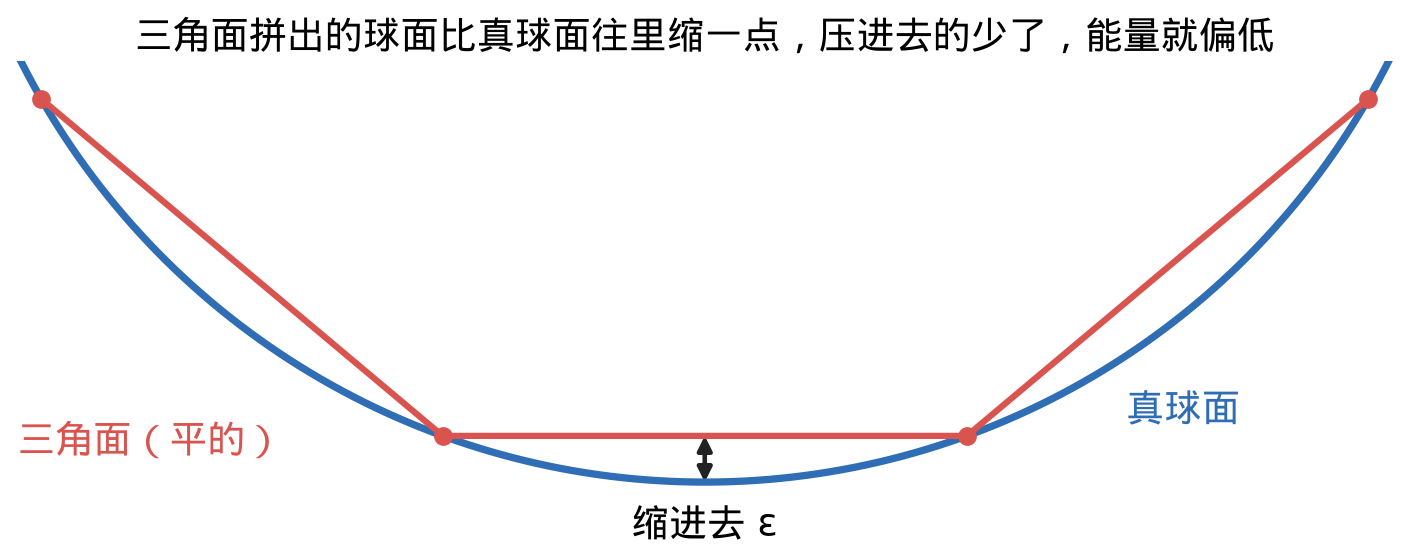
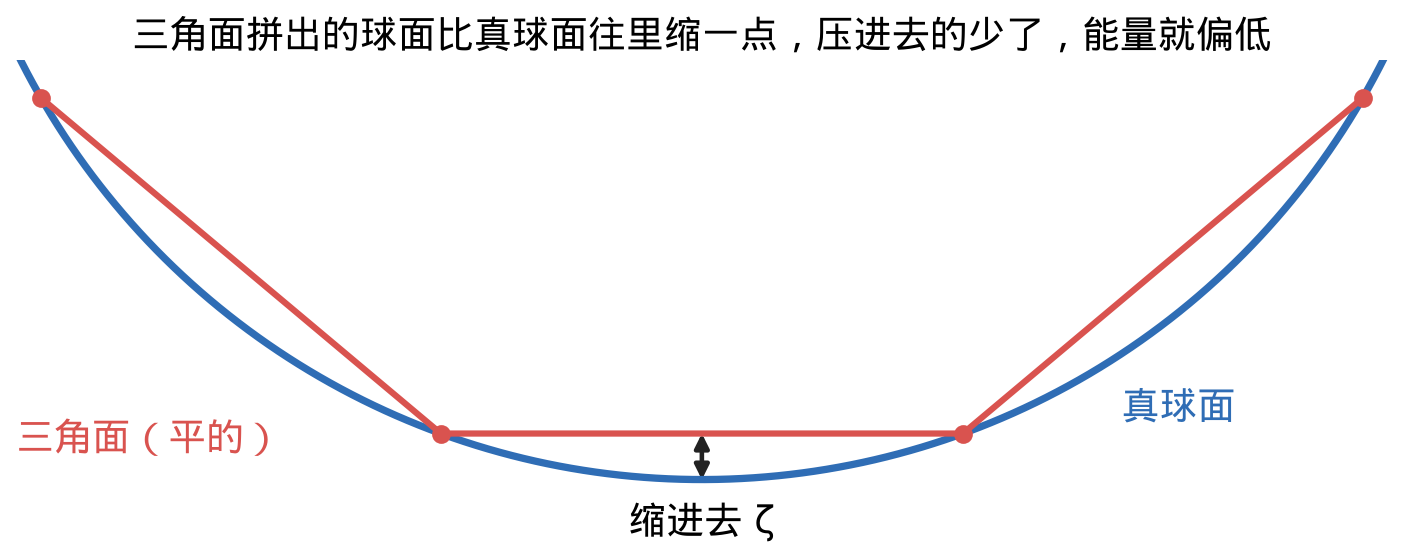
week3_4: four figures redrawn with the unified letters, captions updated, web-image captions note d = δ (sandbox 4ceebd4, 025a337)

diff --git a/week3_4.html b/week3_4.html
@@ -305,7 +305,7 @@ html.annot-on #annot-capture { display: block; }
 <h3 id="w2-1" class="numbered">2.1 两个软体等价于刚体压软平面</h3>
 
 <p><strong>前提。</strong> 接触区比物体小得多，接触处两侧都可看成无限大的弹性体（半空间）；变形很小；无摩擦。</p>
-<figure style="margin:12px 0"><img src="assets/images/w34_Contact_sphere-plane.jpg" width="576" height="404" style="width:599px;max-width:100%;height:auto" alt="这张图展示了弹性球压在弹性平面上时两者怎样变形。F 是把球往下压的力，上方水平虚线是平面原来的表面，弯下去的粗实线是压下去以后的表面，底部那条水平细线只用来量压深，球底部的虚线弧是球没变形时的轮廓，a 是接触半径，d 是压深。通过对比水平虚线和弯下去的粗实线，以及球底的虚实两条弧线，可以看出球和平面都被压扁了一点，而且接触圈以外的平面也被平滑地带着往下沉。" loading="lazy"><figcaption class="small">这张图展示了弹性球压在弹性平面上时两者怎样变形。F 是把球往下压的力，上方水平虚线是平面原来的表面，弯下去的粗实线是压下去以后的表面，底部那条水平细线只用来量压深，球底部的虚线弧是球没变形时的轮廓，a 是接触半径，d 是压深。通过对比水平虚线和弯下去的粗实线，以及球底的虚实两条弧线，可以看出球和平面都被压扁了一点，而且接触圈以外的平面也被平滑地带着往下沉。</figcaption></figure>
+<figure style="margin:12px 0"><img src="assets/images/w34_Contact_sphere-plane.jpg" width="576" height="404" style="width:599px;max-width:100%;height:auto" alt="这张图展示了弹性球压在弹性平面上时两者怎样变形。F 是把球往下压的力，上方水平虚线是平面原来的表面，弯下去的粗实线是压下去以后的表面，底部那条水平细线只用来量压深，球底部的虚线弧是球没变形时的轮廓，a 是接触半径，d 是压深。通过对比水平虚线和弯下去的粗实线，以及球底的虚实两条弧线，可以看出球和平面都被压扁了一点，而且接触圈以外的平面也被平滑地带着往下沉。图中 d 即压深 δ。" loading="lazy"><figcaption class="small">这张图展示了弹性球压在弹性平面上时两者怎样变形。F 是把球往下压的力，上方水平虚线是平面原来的表面，弯下去的粗实线是压下去以后的表面，底部那条水平细线只用来量压深，球底部的虚线弧是球没变形时的轮廓，a 是接触半径，d 是压深。通过对比水平虚线和弯下去的粗实线，以及球底的虚实两条弧线，可以看出球和平面都被压扁了一点，而且接触圈以外的平面也被平滑地带着往下沉。图中 d 即压深 δ。</figcaption></figure>
 <p><strong>要证的事。</strong> 已知两物体的材料、表面形状和压深，求接触面上压力满足的方程，并说明它只依赖哪几个量。</p>
 <p><strong>四个出发点。</strong></p>
 <p>(1) 两侧受同一个压力。设 \(\mathbf x\) 是接触面上的位置，\(p(\mathbf x)\) 是那里单位面积上的压力。由作用与反作用，A 压 B 和 B 压 A 的压力相同，都记作 \(p(\mathbf x)\)。</p>
@@ -339,8 +339,8 @@ html.annot-on #annot-capture { display: block; }
 <p>其中 \(h&#x27;\) 是缝隙的斜率。则三维问题的压深、力、能量与「一排互不相干的弹簧压在轮廓 \(g\) 上」完全一致：第 \(x\) 根弹簧被压缩 \(\delta-g(x)\)，每单位长度刚度为 \(E^*\)，压缩量为零的那根是接触边缘：</p>
 <p>\[\color{#c0392b}{\delta=g(a),\qquad F=2E^*\int_0^a\big(\delta-g(x)\big)dx,\qquad U_0=E^*\int_0^a\big(\delta-g(x)\big)^2dx}.\]</p>
 <p>三维中各点相互牵连的效果全部被 \(h\to g\) 这一换算吸收，换算后弹簧可以各压各的。</p>
-<figure style="margin:12px 0"><img src="assets/images/w34_fig04_mdr_springs.png" width="2207" height="1021" style="width:908px;max-width:100%;height:auto" alt="这张图展示了降维法怎样把三维接触换成一排一维弹簧。左边灰色刚体压橙色平面，两者之间的缝隙是 h(r)，平面里各点的变形互相牵连。右边把缝隙换成灰色的等效轮廓 g(x) = x²/R（R 是球的半径），压进一排弹簧，灰色虚线是弹簧没压时的顶端，红色箭头是压深 d。通过对比两条红色点线之间被压短的蓝色弹簧和点线外不受力的灰色弹簧，可以看出红色点线的位置就是接触边缘 a，满足 g(a) = d。每根弹簧只管自己那一格，所以三维里各点互相牵连的问题变成了一维的逐根相加。" loading="lazy"><figcaption class="small">这张图展示了降维法怎样把三维接触换成一排一维弹簧。左边灰色刚体压橙色平面，两者之间的缝隙是 h(r)，平面里各点的变形互相牵连。右边把缝隙换成灰色的等效轮廓 g(x) = x²/R（R 是球的半径），压进一排弹簧，灰色虚线是弹簧没压时的顶端，红色箭头是压深 d。通过对比两条红色点线之间被压短的蓝色弹簧和点线外不受力的灰色弹簧，可以看出红色点线的位置就是接触边缘 a，满足 g(a) = d。每根弹簧只管自己那一格，所以三维里各点互相牵连的问题变成了一维的逐根相加。</figcaption></figure>
-<figure style="margin:12px 0"><img src="assets/images/w34_WikipediabilderKap_4.jpg" width="1153" height="409" style="width:1184px;max-width:100%;height:auto" alt="这张图是降维法原作者的示意图。左边是半径 R 的灰色球在力 F 下压进弹性平面，a 是接触半径，d 是压深；箭头右边是换成的一维模型，一个半径 R1 的灰色轮廓在同样的力 F 下压进一排竖直弹簧，R1 = R/2，也就是等效轮廓 g(x) = x²/R。通过对比左右两边标出的 a 和 d，可以看出换成一排各压各的弹簧后，力、接触半径、压深都与三维问题相同，所以能用一维弹簧算三维接触。" loading="lazy"><figcaption class="small">这张图是降维法原作者的示意图。左边是半径 R 的灰色球在力 F 下压进弹性平面，a 是接触半径，d 是压深；箭头右边是换成的一维模型，一个半径 R1 的灰色轮廓在同样的力 F 下压进一排竖直弹簧，R1 = R/2，也就是等效轮廓 g(x) = x²/R。通过对比左右两边标出的 a 和 d，可以看出换成一排各压各的弹簧后，力、接触半径、压深都与三维问题相同，所以能用一维弹簧算三维接触。</figcaption></figure>
+<figure style="margin:12px 0"><img src="assets/images/w34_fig04_mdr_springs.png" width="2205" height="1021" style="width:907px;max-width:100%;height:auto" alt="这张图展示了降维法怎样把三维接触换成一排一维弹簧。左边灰色刚体压橙色平面，两者之间的缝隙是 h(r)，平面里各点的变形互相牵连。右边把缝隙换成灰色的等效轮廓 g(x) = x²/R（R 是球的半径），压进一排弹簧，灰色虚线是弹簧没压时的顶端，红色箭头是压深 δ。通过对比两条红色点线之间被压短的蓝色弹簧和点线外不受力的灰色弹簧，可以看出红色点线的位置就是接触边缘 a，满足 g(a) = δ。每根弹簧只管自己那一格，所以三维里各点互相牵连的问题变成了一维的逐根相加。" loading="lazy"><figcaption class="small">这张图展示了降维法怎样把三维接触换成一排一维弹簧。左边灰色刚体压橙色平面，两者之间的缝隙是 h(r)，平面里各点的变形互相牵连。右边把缝隙换成灰色的等效轮廓 g(x) = x²/R（R 是球的半径），压进一排弹簧，灰色虚线是弹簧没压时的顶端，红色箭头是压深 δ。通过对比两条红色点线之间被压短的蓝色弹簧和点线外不受力的灰色弹簧，可以看出红色点线的位置就是接触边缘 a，满足 g(a) = δ。每根弹簧只管自己那一格，所以三维里各点互相牵连的问题变成了一维的逐根相加。</figcaption></figure>
+<figure style="margin:12px 0"><img src="assets/images/w34_WikipediabilderKap_4.jpg" width="1153" height="409" style="width:1184px;max-width:100%;height:auto" alt="这张图是降维法原作者的示意图。左边是半径 R 的灰色球在力 F 下压进弹性平面，a 是接触半径，d 是压深；箭头右边是换成的一维模型，一个半径 R1 的灰色轮廓在同样的力 F 下压进一排竖直弹簧，R1 = R/2，也就是等效轮廓 g(x) = x²/R。通过对比左右两边标出的 a 和 d，可以看出换成一排各压各的弹簧后，力、接触半径、压深都与三维问题相同，所以能用一维弹簧算三维接触。图中 d 即压深 δ。" loading="lazy"><figcaption class="small">这张图是降维法原作者的示意图。左边是半径 R 的灰色球在力 F 下压进弹性平面，a 是接触半径，d 是压深；箭头右边是换成的一维模型，一个半径 R1 的灰色轮廓在同样的力 F 下压进一排竖直弹簧，R1 = R/2，也就是等效轮廓 g(x) = x²/R。通过对比左右两边标出的 a 和 d，可以看出换成一排各压各的弹簧后，力、接触半径、压深都与三维问题相同，所以能用一维弹簧算三维接触。图中 d 即压深 δ。</figcaption></figure>
 <h4>推导</h4>
 <p><strong>第一步：平底的解。</strong> 半径为 \(\tilde a\) 的平底压入深度 \(\delta\) 时，底面下的压强是 Boussinesq 的经典解</p>
 <p>\[p(r)=\frac{E^*\delta}{\pi\sqrt{\tilde a^2-r^2}}\quad(r&lt;\tilde a).\]</p>
@@ -523,7 +523,7 @@ html.annot-on #annot-capture { display: block; }
 <p>为什么与 \(\ell^2/R\) 成正比：看两个典型点，边中点约 \(\ell^2/(8R)\)，面中心约 \(\ell^2/(6R)\)（整面平均也等于 \(\ell^2/(8R)\)）。这两个数来自弦高：一个平面截球面得到半径 \(\rho\) 的截圆，截圆中心处平面比球面凹进的深度，按 2.3 节同样的勾股近似（\(R-\sqrt{R^2-\rho^2}\)，略去高阶项）是</p>
 <p>\[\zeta\approx\frac{\rho^2}{2R}.\]</p>
 <p>（\(\zeta\) 是凹进深度。）边是长 \(\ell\) 的弦，边中点处取 \(\rho=\ell/2\)，得 \(\zeta=\frac{(\ell/2)^2}{2R}=\frac{\ell^2}{8R}\)；正三角形的三个顶点落在半径 \(\rho=\ell/\sqrt3\) 的截圆上（外接圆），面中心处得 \(\zeta=\frac{\ell^2/3}{2R}=\frac{\ell^2}{6R}\)。两者都是 \(\ell^2/R\) 乘一个常数，边长减半时都缩为四分之一。</p>
-<figure style="margin:12px 0"><img src="assets/images/w34_fig11b_facet_sagitta.png" width="1409" height="556" style="width:669px;max-width:100%;height:auto" alt="这张图展示了三角面拼出的球为什么让能量偏低。蓝色弧线是真球面，红色折线是用平的三角面拼出来的球面，红点是三角面的顶点，都落在真球面上。通过对比蓝色弧线和红色折线，以及最下面那块平面中点到弧线之间标着「缩进去 ε」的小箭头，可以看出每块平面都比真球面往里缩了一点，压头实际压进去的量变少，所以算出的能量偏低。三角面拼得越粗，ε 越大，能量偏得越多。" loading="lazy"><figcaption class="small">这张图展示了三角面拼出的球为什么让能量偏低。蓝色弧线是真球面，红色折线是用平的三角面拼出来的球面，红点是三角面的顶点，都落在真球面上。通过对比蓝色弧线和红色折线，以及最下面那块平面中点到弧线之间标着「缩进去 ε」的小箭头，可以看出每块平面都比真球面往里缩了一点，压头实际压进去的量变少，所以算出的能量偏低。三角面拼得越粗，ε 越大，能量偏得越多。</figcaption></figure>
+<figure style="margin:12px 0"><img src="assets/images/w34_fig11b_facet_sagitta.png" width="1404" height="558" style="width:666px;max-width:100%;height:auto" alt="这张图展示了三角面拼出的球为什么让能量偏低。蓝色弧线是真球面，红色折线是用平的三角面拼出来的球面，红点是三角面的顶点，都落在真球面上。通过对比蓝色弧线和红色折线，以及最下面那块平面中点到弧线之间标着「缩进去 ζ」的小箭头，可以看出每块平面都比真球面往里缩了一点，压头实际压进去的量变少，所以算出的能量偏低。三角面拼得越粗，ζ 越大，能量偏得越多。" loading="lazy"><figcaption class="small">这张图展示了三角面拼出的球为什么让能量偏低。蓝色弧线是真球面，红色折线是用平的三角面拼出来的球面，红点是三角面的顶点，都落在真球面上。通过对比蓝色弧线和红色折线，以及最下面那块平面中点到弧线之间标着「缩进去 ζ」的小箭头，可以看出每块平面都比真球面往里缩了一点，压头实际压进去的量变少，所以算出的能量偏低。三角面拼得越粗，ζ 越大，能量偏得越多。</figcaption></figure>
 <h3 id="w3-3" class="numbered">3.3 数据集</h3>
 
 <p>一个<strong>标签</strong>是一个构型（一对物体及其材料）在一个压深下、外推到理想极限后的能量。造一个标签平均要跑约 4 次 IPC 仿真（不同网格、接触阈值和块尺寸；含诊断与旧版本共约 7 次）。</p>
